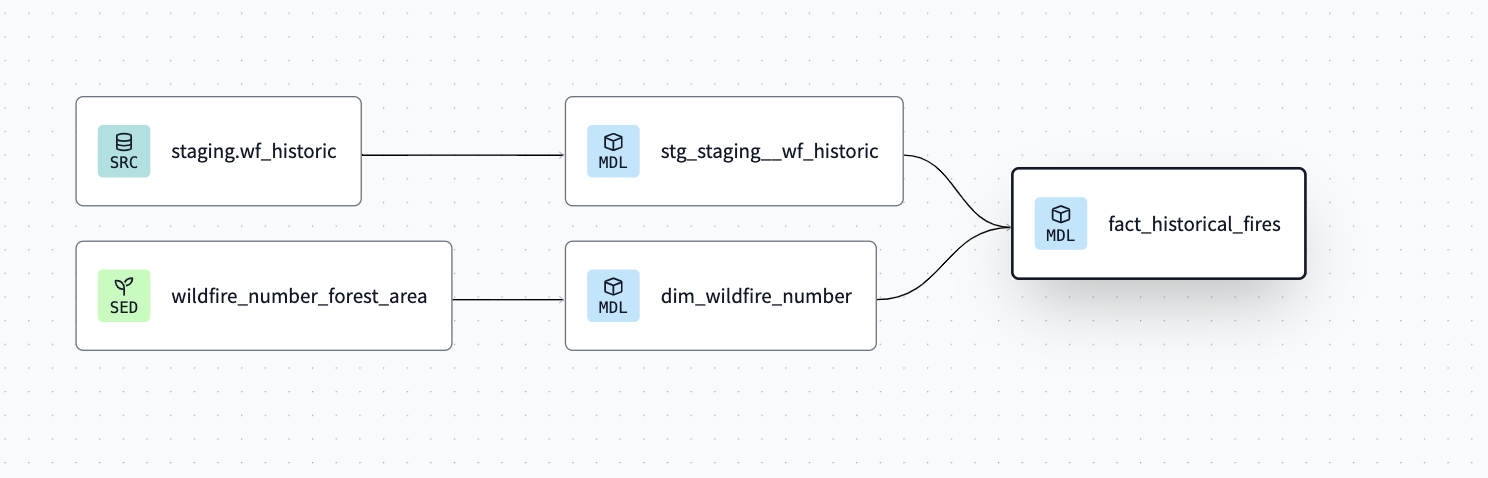
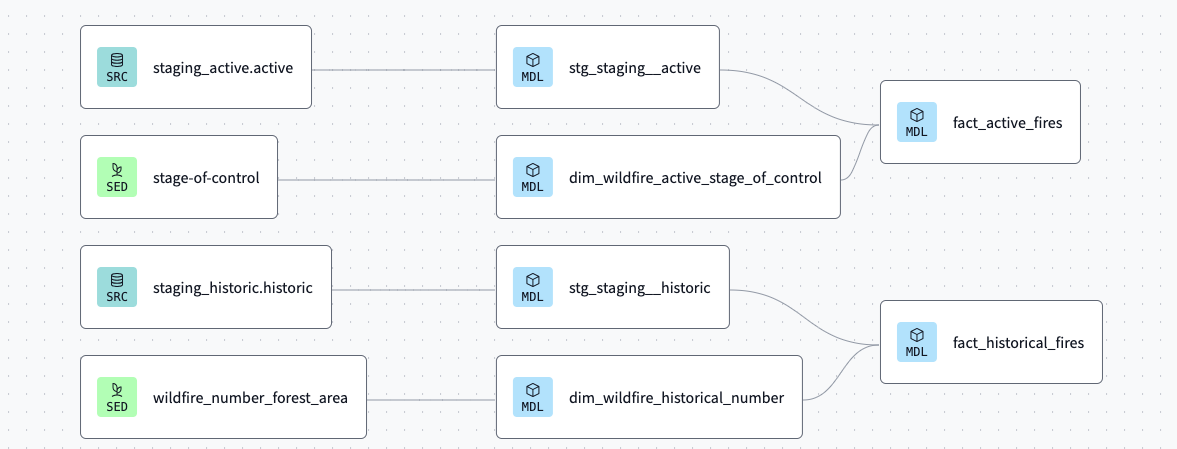
readme update - v2

diff --git a/readme.md b/readme.md
@@ -1,13 +1,23 @@
-# Historical Wildfires in Alberta
-## Overview:
-This project uses open city wildfire data to story tell.
-The motivation behind this project is to extract insights by looking at historical fire causes over the years.
-As wildfires effect the health of the overall population, its become increasingly important to monitor and understand fires and their various causes, including human error.
+# Wildfires - Past and Present Insights
+## Project Overview:
+This project leverages wildfire data to story-tell.
+Its core aim is to deliver valuable insights by analyzing both historical and ongoing wildfire incidents.
+In the era of climate change, there's a growing urgency to monitor and comprehend these occurrences and their wide range of causes, including human error.
+
+As a resident of a town that underwent a town-wide fire evacuation, observing that data as an anomaly in this dashboard was enlightening.
+During the project's inception, my town was also under a fire-watch warning, with some residents already evacuating.
+It was reassuring to note that the fire encroaching upon my family's hometown was now under control according to the latest daily data.
+Ensuring the accuracy and currency of this project remained imperative throughout its development.
 
 ## Objective:
-* Extract historical wildfire data
+* Extract historical and active wildfire data
 * Transform & Load the data into a Data Lake
-* Provide insights, reports to support data-driven decisions
+* Provide insights and reports which support data-driven decisions and provide insight into wildfires.
+
+###### Visualization 1 - Active Wildfires
+![wf-active.png](readme_images%2Fwf-active.png)
+###### Visualization 2 - Historic Wildfires
+![wf-historic.png](readme_images%2Fwf-historic.png)
 
 ## Data Sources:
 #### Historical Wildfires:
@@ -17,9 +27,8 @@ As wildfires effect the health of the overall population, its become increasingl
 [Natural Resources Canada](https://cwfis.cfs.nrcan.gc.ca/datamart/metadata/activefires)
 
 ## Architecture:
-
 ![pipeline-architecture.jpg](readme_images/pipeline-architecture.jpg)
-1. Open City Data
+1. Open City Data, Canada Active Wildfire data
 2. Dockerized Mage orchestrator
 3. Orchestration: Python ETL Pipeline in Mage
 4. Automated Infrastructure as code: Terraform
@@ -33,10 +42,10 @@ As wildfires effect the health of the overall population, its become increasingl
 2. **Environment:** Python, Docker
 3. **ETL Pipeline:**
    * Extract data: Open City historical fire data
-   * Transform data: transform to Pandas Dataframe from Excel spreadsheet
+   * Transform data: transform to Pandas Dataframe from various sources (Excel & CSV)
    * Load the Data: into Data Lake (GCS) and Data Warehouse (BigQuery) 
 
-4. **Orchestration:** using Mage to orchestrate the ETL pipeline
+4. **Orchestration:** using Mage to orchestrate the ETL pipeline. Running daily for active Wildfires only
 5. **Containerization & Deployment:** Dockerized the ETL pipeline for scalability
 6. **Data Warehouse:** Use DBT perform consistent and stable transformations to build a historical fact table
 7. **Visualization:** I made a Looker Studio Historical Fires Report
@@ -49,24 +58,28 @@ Simple pipeline of an API loader
 Loading into Data Warehouse and Data Lake
   
 ```Mage```: Orchestration
-* A simple column name transformation was used because the data was messy
+* Historic: A simple column name transformation was used because the data was messy
   * Column name erroneously named ``` "`" ``` which is an illegal character in BigQuery.
-* Upon further investigation and referring to the data dictionary, this column should be named ```"true_cause"```
- ![mage.png](readme_images%2Fmage.png)
-
+  * Upon further investigation and referring to the data dictionary, this column should be named ```"true_cause"```
+###### Historic Wildfires  
+![mage-historic.png](readme_images%2Fmage-historic.png)
+###### Active Wildfires
+![mage-active.png](readme_images%2Fmage-active.png)
+###### Active Wildfires Scheduling
+![mage-pipeline-active.png](readme_images%2Fmage-pipeline-active.png)
 ## Data Warehouse
 ```BigQuery``` first inspection
 ![data-warehouse.png](readme_images%2Fdata-warehouse.png)
 
 ## DBT:
 Building a model using seed data and wildfire data to a final fact table for historical fire data.  
-DBT applies scalable and testable transformations to the data, and jobs to ensure the data is fresh.
+DBT applies scalable, scheduled and testable transformations to the data, and jobs to ensure the data is fresh.
 
 ```DBT Model```
 ![dbt.png](readme_images%2Fdbt.png)
 
 ### Seed Data
-#### Fire Weather Index
+#### Historic: Fire Weather Index
 Obtained from Alberta's Open City Data. It was presented as a non-text friendly pseudo-table, so the table had to be reconstructed manually:
 * OCR to extract text
 * LLMs to process and transform text
@@ -74,13 +87,25 @@ Obtained from Alberta's Open City Data. It was presented as a non-text friendly 
 * Ultimately ended up not using this, but documentation of steps is important
 https://open.alberta.ca/publications/fire-weather-index-legend
 
-#### Fire Number to Forest Area
+#### Historic: Fire Number to Forest Area
 Constructed a separate table of Fire Number data based on text descriptions found in the data dictionary.  
 This will be inner-joined with the main table to provide detailed wildfire location names.
 ![fire-number-data-dictionary.png](readme_images%2Ffire-number-data-dictionary.png)
 
+#### Active: Wildfires Stage of Control
+Built a table from the stage of control described below to increase interpretability if the data.
+![active-wildfires-data-dictionary.png](readme_images%2Factive-wildfires-data-dictionary.png)
+
 ## Visualization
-![looker.png](readme_images%2Flooker.png)
+Using LookerStudio to have an interactive dashboard with the following filters.
+* ##### Historic fires by year
+  * A lot of fires happen each year. which means too many data points to interpret a single graph
+* ##### Historic fires by class size of fire
+  * Users would be further break down historic fires
+* ##### Active fires by hectares
+  * Users might want to filter out smaller fires
+* ##### Active fires by stage of control
+  * The current concern might be to quickly drill down to out of control fires
 
 # Instructions
 ## 0. Preparation
@@ -109,7 +134,7 @@ Variables are stored and used from previous steps here in the ```variables.tf```
 
 ## 4. Mage
 A simple Dockerfile is used to build a mage container.
-Ensure your key is saved to ./keys because that will be a local volumne mount
+Ensure your key is saved to ./keys because that will be a local volume mount
 
 ```docker compose up -d```
 
